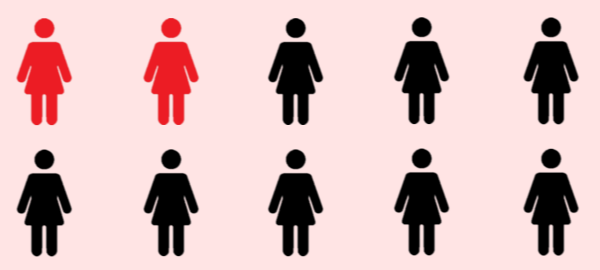
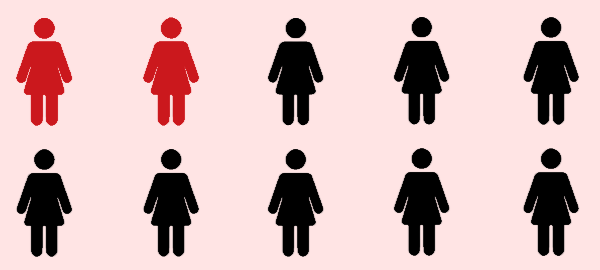
hkjb

diff --git a/index.html b/index.html
@@ -40,42 +40,52 @@
 
 <div class="grafico" >
     <p class="testo2" > <img src="eta.png" alt="grafico età" width="45%" style="float: left;"> 
-      "descrizione grafico"<br> TESTO DI PROVA: <br>
+       "descrizione grafico"<br> TESTO DI PROVA: <br>
       La violenza contro le donne viene definita fatto sociale che necessita di interventi mirati in termini di politiche pubbliche solo verso la fine degli anni 70. Saranno infatti i movimenti femministi a trasformare questo fenomeno da privato a pubblico, mettendo in luce la gerarchia sociale e il controllo dell’uomo sulla figura femminile. </p>
   
 </div>
 
 <br>
 
+
+<p>INTRODUZIONE ALLA CARTINA.... WIP</p>
+
 <div class="cartina" style="margin-top: 10pt;">
-  <iframe title="[ lol]" aria-label="Map" id="datawrapper-chart-2QNXp" src="https://datawrapper.dwcdn.net/2QNXp/1/" scrolling="no" frameborder="0" style="width: 0; min-width: 100% !important; border: none;" height="300"></iframe>
+  <iframe title="[ cartina]" aria-label="Map" id="datawrapper-chart-2QNXp" src="https://datawrapper.dwcdn.net/2QNXp/1/" scrolling="no" frameborder="0" style="width: 0; min-width: 100% !important; border: none;" height="300"></iframe>
   <script type="text/javascript">!function(){"use strict";window.addEventListener("message",(function(a){if(void 0!==a.data["datawrapper-height"])for(var e in a.data["datawrapper-height"]){var t=document.getElementById("datawrapper-chart-"+e)||document.querySelector("iframe[src*='"+e+"']");t&&(t.style.height=a.data["datawrapper-height"][e]+"px")}}))}();</script>
   <br>
 </div>
+
+
 <p class="testocartina">
   La Regione con la percentuale più alta è il Lazio, pari al 39.2%. Per questo motivo si è reso necessario l’inserimento della <a href="https://www.gazzettaufficiale.it/eli/id/2014/09/27/14R00370/s3#:~:text=Riordino%20delle%20disposizioni%20per%20contrastare,differenze%20tra%20uomo%20e%20donna." target="_blank">Legge regionale n.4 del 19 marzo 2014</a>: “Riordino delle disposizioni per contrastare la violenza contro le donne in quanto basata sul genere e per la promozione di una cultura del rispetto dei diritti umani fondamentali e delle differenze tra uomo e donna.”<br>
 
-<br>La Basilicata ha un’incidenza del fenomeno del 23.7%, una percentuale più bassa rispetto alle altre Regioni, ma nonostante questo i dati rimangono allarmanti,<br>  mediamente <span style="color: red; font-weight: bold ;">1 donna su 3</span> subisce violenza mostrando un fallimento dell’intera comunità nazionale. </p>
+<br>La Basilicata ha un’incidenza del fenomeno del 23.7%, una percentuale più bassa rispetto alle altre Regioni, ma nonostante questo i dati rimangono allarmanti,<br>  mediamente <span style="color: #cb181d; font-weight: bold ;">1 donna su 3</span> subisce violenza mostrando un fallimento dell’intera comunità nazionale. </p>
 
 <br><br><br>
 
+<div class="conclusioni">
+  <p><span class="sottotitolo"> CONCLUSIONI:</span> Questo progetto ecc</p>
+ 
+</div>
+
 <br><br><br>
+
 
 
 
 <div>
-  <p class="citazione"> Tutti i dati sono stati forniti dall'<a href="http://dati.istat.it/Index.aspx" target="_blank">ISTAT</a></p>
+  <p class="citazione" style="margin-bottom: 10pt;"> Tutti i dati sono stati forniti dall'<a href="http://dati.istat.it/Index.aspx" target="_blank">ISTAT</a></p>
 
-  <h4 style="margin-bottom: 0px;">Credits</h4><br>
+  <h4 style="margin-bottom: 0px; margin-top: 5pt; padding-bottom: 10pt;">Credits</h4>
 <p style="margin-top: 0px;">Progetto creato nel 2021 nell'ambito del contest "Data Driven" organizzato da <a href="https://www.camplus.it/" target="_blank">Camplus College</a> 
-  <br>realizzato da <a href="https://www.linkedin.com/in/matteo-matassoni/" target="_blank">Matteo Matassoni </a></p>
+  <br>Realizzato da <a href="https://www.linkedin.com/in/matteo-matassoni/" target="_blank">Matteo Matassoni </a></p>
 </div>
 
 
+
+
 </body>
-
-
-
 
 <script>
 

diff --git a/violenza.css b/violenza.css
@@ -17,11 +17,15 @@ body{
 
 h4{font-family: 'Signika', sans-serif;}
 
+h2{font-family: 'Signika', sans-serif;
+  color: #cb181d;}
+
+
 .titolo{
   margin-top: 2;
   margin-bottom: 1;
  font-size: 3.7rem;
- color: red;
+ color: #cb181d;
  font-family: 'Amatic SC', cursive;
  
 }
@@ -29,7 +33,7 @@ h4{font-family: 'Signika', sans-serif;}
 .sottotitolo{
   margin-top: 2;
   font-size: 2.7rem;
-  color: red;
+  color: #cb181d;
   font-family: 'Dancing Script', cursive;
 
  }
@@ -103,16 +107,18 @@ a{
    }
 
 .div-citazione{
+  font-weight: bold;
   padding-top: 10pt;
   padding-bottom: 10pt;
   margin-top: 90pt;
   font-size: 2.7rem;
-  background-color: crimson;  
+  background-color: #cb181d;  
 }
 
 .citazione{
   font-style: italic;
   color: grey;
+  font-weight: normal;
 }
 
 
